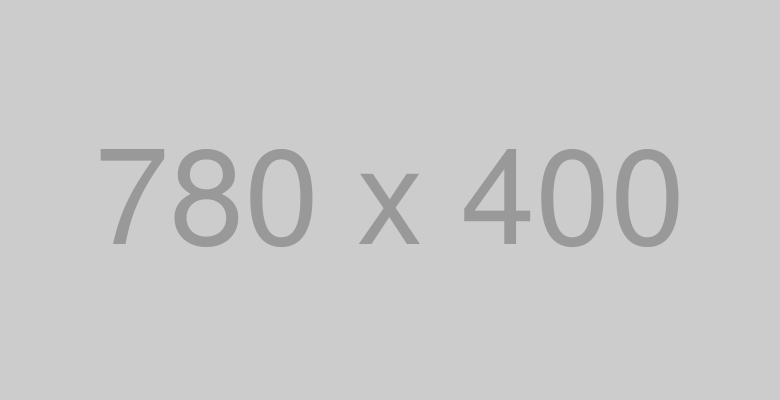
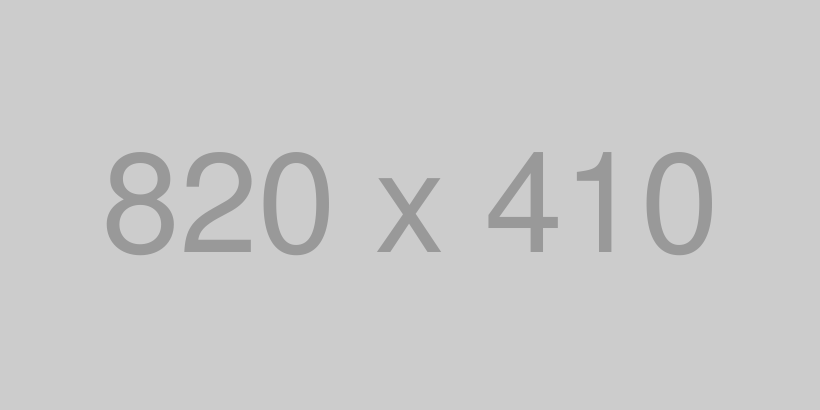
updates

diff --git a/signup.html b/signup.html
@@ -6,7 +6,7 @@
   <head>
   <meta charset="utf-8">
   <meta name="viewport" content="width=device-width, initial-scale=1">
-  <title>welcome to Glamour</title>
+  
   <link rel="stylesheet" href="https://maxcdn.bootstrapcdn.com/bootstrap/4.0.0/css/bootstrap.min.css">
   <script src="https://ajax.googleapis.com/ajax/libs/jquery/3.3.1/jquery.min.js"></script>
   <script src="https://cdnjs.cloudflare.com/ajax/libs/popper.js/1.12.9/umd/popper.min.js"></script>
@@ -30,12 +30,45 @@
     </style>
   <link href="css/signin.css" rel="stylesheet">
   </head>
-<body class="text-center">
-<!-- sign in -->
+<body>
+
+<!-- nav -->
+ <nav class="navbar navbar-expand-md navbar-light bg-light sticky-top">
+  <div class="container">
+    <a class="navbar-brand" href="index.html"><img src="img/logo.png"></a>
+    <button class="navbar-toggler" type="button" data-toggle="collapse" data-target="#navbarResponsive">
+      <span class="navbar-toggler-icon"></span>
+      
+    </button>
+    <div class="collapse navbar-collapse" id="navbarResponsive">
+      <ul class="navbar-nav ml-auto">
+        <li class="nav-item">
+          <a class="nav-link" href="index.html">Home</a>
+        </li>
+        <li class="nav-item">
+          <a class="nav-link" href="about.html">About</a>
+        </li>
+        <li class="nav-item">
+          <a class="nav-link" href="contact.html">Contact</a>
+        </li>
+        
+      </ul>
+      <div class="text-end">
+        <a href="signin.html">
+          <button type="button" class="btn btn-outline-dark me-2">Login</button></a>
+          <a href="signup.html">
+          <button type="button" class="btn btn-primary">Sign-up</button></a>
+        </div>
+    </div>
+  </div>
+
+  </div>
+</nav>
+<!-- sign up -->
    <main class="form-signin">
   <form>
-    <img class="mb-4" src="#" alt="" width="72" height="57">
-    <h1 class="h3 mb-2 fw-normal">Please Create Your Account</h1>
+    <img class="mb-4  text-center" src="#" alt="" width="72" height="57">
+    <h4 class="h3 mb-2 fw-normal">Please Create Your Account</h4>
 
     <div class="form-floating">
       <input type="text" class="form-control" id="usernameinput" placeholder="first Name">

diff --git a/signin.html b/signin.html
@@ -30,12 +30,46 @@
     </style>
   <link href="css/signin.css" rel="stylesheet">
   </head>
-<body class="text-center">
+
+
+<body >
+  <!-- nav -->
+   <nav class="navbar navbar-expand-md navbar-light bg-light sticky-top">
+  <div class="container">
+    <a class="navbar-brand" href="index.html"><img src="img/logo.png"></a>
+    <button class="navbar-toggler" type="button" data-toggle="collapse" data-target="#navbarResponsive">
+      <span class="navbar-toggler-icon"></span>
+      
+    </button>
+    <div class="collapse navbar-collapse" id="navbarResponsive">
+      <ul class="navbar-nav ml-auto">
+        <li class="nav-item">
+          <a class="nav-link" href="index.html">Home</a>
+        </li>
+        <li class="nav-item">
+          <a class="nav-link" href="about.html">About</a>
+        </li>
+        <li class="nav-item">
+          <a class="nav-link" href="contact.html">Contact</a>
+        </li>
+        
+      </ul>
+      <div class="text-end">
+        <a href="signin.html">
+          <button type="button" class="btn btn-outline-dark me-2">Login</button></a>
+          <a href="signup.html">
+          <button type="button" class="btn btn-primary">Sign-up</button></a>
+        </div>
+    </div>
+  </div>
+
+  </div>
+</nav>
 <!-- sign in -->
-   <main class="form-signin">
+   <main class="form-signin ">
   <form>
-    <img class="mb-4" src="#" alt="" width="72" height="57">
-    <h1 class="h3 mb-3 fw-normal">Please sign in</h1>
+    <img class="mb-4 text-center" src="#" alt="" width="72" height="57">
+    <h4 class="h3 mb-3 fw-normal">Please sign in</h4>
 
     <div class="form-floating">
       <input type="email" class="form-control" id="floatingInput" placeholder="name@example.com">

diff --git a/index.html b/index.html
@@ -61,32 +61,21 @@
 	</div>
 </nav>
 <!--- Image Slider -->
-<div id="slides" class="carousel slide" data-ride="carousel">
-	<ul class="carousel-indicators"> 
-		<li data-target="#slides" data-slide-to="0" class="active"></li>
-		<li data-target="#slides" data-slide-to="1"></li>
-		<li data-target="#slides" data-slide-to="2"></li>		
-	</ul>
-	<div class="carousel-inner">
-		<div class="carousel-item active">
-					<img src="img/slide.png" class="img-fluid">
-			<div class="carousel-caption">
-				<h1 class="display-2">Glamour Surprises </h1>
-				<h3>THrilling Love One's</h3>
-				<button type="button" class="btn btn-outline-light btn-lg">Our Gallery</button>
-				<button type="button" class="btn btn-primary btn-lg">Order Now</button>
-			</div>			
-		</div>
-		<div class="carousel-item">
-			<img src="img/slide.png" class="img-fluid">			
-		</div>
-		<div class="carousel-item">
-			<img src="img/slide.png" class="img-fluid">			
-		</div>
-		
-	</div>
+ <div class="container-fluid py-2">
+<div id="carouselExampleSlidesOnly" class="carousel slide text-center" data-bs-ride="carousel">
+  <div class="carousel-inner">
+    <div class="carousel-item active">
+      <img src="img/slide.png" class="d-block w-100" alt="..." height="410">
+    </div>
+    <div class="carousel-item">
+      <img src="img/slide.png" class="d-block w-100" alt="..." height="410">
+    </div>
+    <div class="carousel-item">
+      <img src="img/slide.png" class="d-block w-100" alt="..." height="410">
+    </div>
+  </div>
 </div>
-
+</div>
 <!--- Jumbotron use as a welcome section-->
 <div class="container-fluid">
 	<div class="row jumbotron">

diff --git a/css/signin.css b/css/signin.css
@@ -3,7 +3,7 @@ body {
   height: 100%;
 }
 
-body {
+.form-signin {
   display: flex;
   align-items: center;
   padding-top: 40px;

diff --git a/css/style.css b/css/style.css
@@ -26,7 +26,7 @@ html, body{
 
 .carousel-inner img{
   width: 100%;
-  height: 50%;
+ 
 
 }
 .carousel-caption{
